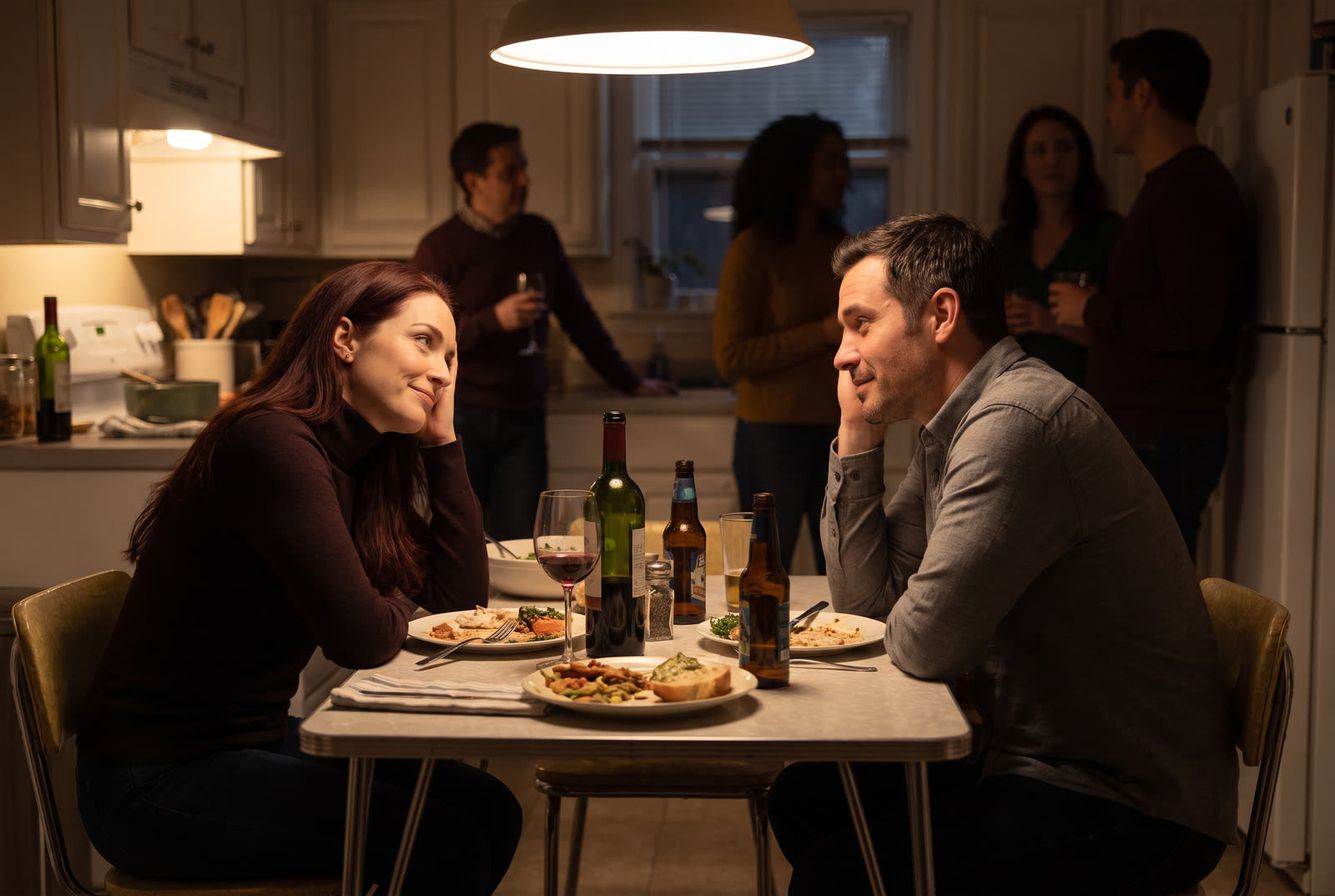
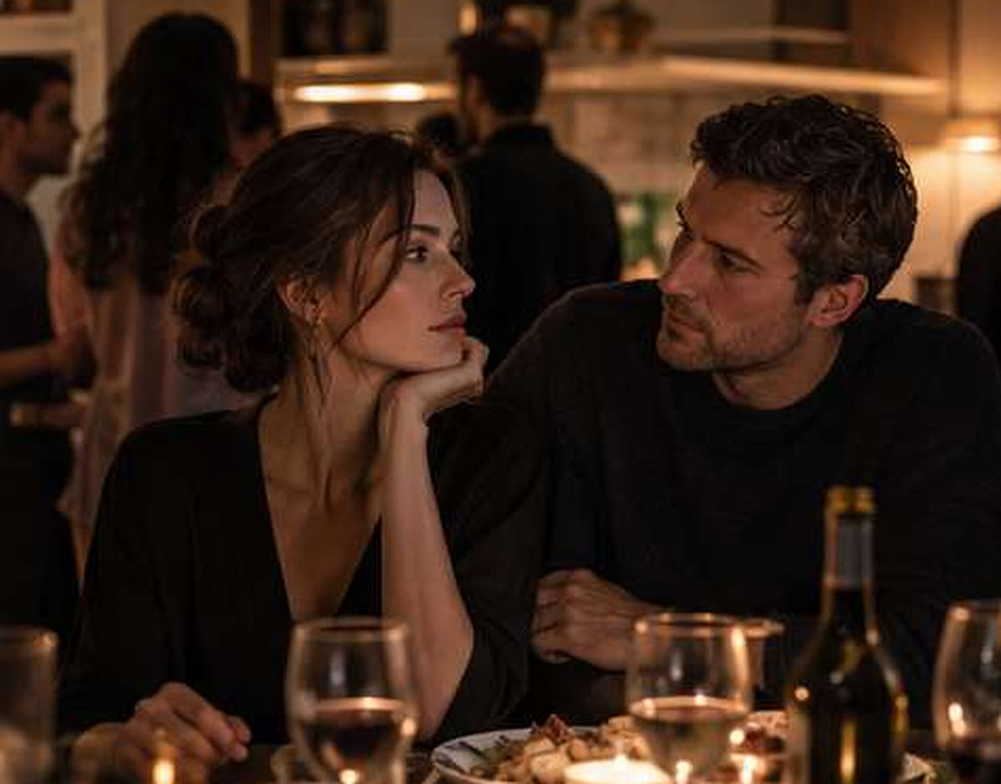
Елена: настоящие кадры вместо сгенерированных, восемь вставок по сюжету

diff --git a/elena.html b/elena.html
@@ -684,16 +684,29 @@ section[id]{scroll-margin-top:96px}
         <p class="drop">Они знали друг друга почти год. В сущности, знакомство их началось так, как начинаются многие знакомства, которым впоследствии приписывают особенное значение: без обещаний, без торжественных слов, почти случайно. Сперва они встречались в общей компании — у кого-нибудь на кухне, за столом, заставленным тарелками и бутылками, в комнатах, где разговоры тянутся далеко за полночь, а гости расходятся не сразу, словно каждому неприятно возвращаться в собственную пустую квартиру. Андрей говорил мало. Он не умел, как некоторые, заполнять паузы словами, но слушал внимательно, и Елена довольно скоро заметила, что при разговоре с ней он переставал смотреть по сторонам. Казалось, он боялся пропустить хоть одно слово и потом, оставшись один, старался припомнить её интонации.</p>
 
         <figure class="sf">
-          <img src="assets/img/story/elena_01_kuhnya.jpg" alt="Общая кухня поздним вечером: тарелки, бутылки, Елена и Андрей за столом" loading="lazy">
-          <figcaption>словно каждому неприятно возвращаться в собственную пустую квартиру</figcaption>
+          <img src="assets/img/story/elena_01_kuhnya.jpg" alt="Елена и Андрей за столом в общей компании: тарелки, бокалы, свечи" loading="lazy">
+          <figcaption>01 · общая кухня. тарелки, бутылки, поздний час</figcaption>
         </figure>
+
 
         <p>Поначалу она принимала это за застенчивость. Потом поняла, что дело не только в ней. В его внимании была какая-то почти стыдливая сосредоточенность, свойственная людям, которые уже отдали другому человеку значительную часть себя, хотя ещё не решились признаться в этом даже самим себе. Иногда, когда все остальные уходили, Андрей задерживался в прихожей, помогал ей убрать чашки или спрашивал о книге, о которой она упоминала за столом. Иногда она сама писала ему первой — без особенной причины, как ей казалось, просто потому, что вспоминала о нём. Она не отталкивала его; напротив, случалось, что оставляла рядом дольше, чем требовали приличия. Между ними постепенно возникло нечто неопределённое: ещё не роман, но уже и не простая дружба, а та осторожная близость, в которой каждый шаг кажется одновременно ничтожным и решающим.</p>
         <p>Елена была женщиной наблюдательной. Она замечала, как люди выдают себя мелочами: торопливым движением руки, внезапным молчанием, готовностью согласиться там, где следовало бы возразить. В Андрее её особенно занимало то, что он не требовал от неё ничего определённого. Он словно был готов ждать, пока она сама решит, чем станет их знакомство. Это могло показаться благородством, но Елена видела в этом и другую сторону: он слишком боялся потерять возможность быть рядом, чтобы предъявлять собственные желания.</p>
         <p>Однажды поздним сентябрём они сидели у неё на кухне. За окном темнело; на подоконнике остывал чайник, а в соседнем доме кто-то долго и неумело играл на пианино одну и ту же мелодию. Они говорили о книгах, о людях, которых оба знали, о странной способности человека годами жить не своей жизнью и при этом считать её единственно возможной. Елена вдруг замолчала, посмотрела на Андрея и произнесла, без предисловия и без улыбки:</p>
         <p class="dlg">— Есть вещи, которые для меня важны в близости. Не самые обычные. Если тебе это окажется чуждым, лучше сказать сразу.</p>
         <p>Она говорила спокойно, почти деловито. Речь шла о власти и контроле, о желании не просто отвечать на чужое чувство, а направлять его; о том, что ей необходимо видеть, как другой человек доверяет ей право решать, когда приблизиться, когда отступить и когда ждать. В её словах не было ни кокетства, ни попытки вызвать скандал. Она словно сообщала условие, без которого дальнейший разговор был бы бессмысленным.</p>
+
+        <figure class="sf">
+          <img src="assets/img/story/elena_02_treshchina.jpg" alt="Елена говорит через стол, на столе чайник и трещина в чашке" loading="lazy">
+          <figcaption>02 · трещина в столе. он молчал</figcaption>
+        </figure>
+
         <p>Андрей слушал, не перебивая. Сначала он не вполне понимал, что именно она имеет в виду; потом стал понимать достаточно, чтобы испугаться. Но страх этот был смешан с облегчением: перед ним впервые открывалась та часть Елены, которую она не показывала другим. Он долго молчал, глядя на стол, где возле сахарницы лежала маленькая трещина, похожая на тонкую чёрную нитку. Наконец спросил, можно ли попробовать.</p>
+
+        <figure class="sf">
+          <img src="assets/img/story/elena_03_ozhidanie.jpg" alt="Андрей один, руки сложены, он ждёт" loading="lazy">
+          <figcaption>03 · ожидание. решение остаётся за ней</figcaption>
+        </figure>
+
         <p>Он согласился не потому, что всё понял и заранее принял. Скорее, он не мог представить себе, как будет жить дальше, если Елена после этого разговора отдалится от него. Любовь, ещё не названная вслух, уже успела стать в нём настоящей силой; она подталкивала его к согласию, в котором было и любопытство, и страх, и желание доказать, что он способен выдержать то, чего она от него ждёт.</p>
         <p>Так всё и началось — не резко, не с внезапного переворота, а с медленного смещения границ. Сначала каждое новое условие казалось небольшим, почти незначительным. Андрей сам соглашался на него, сам убеждал себя, что в любой момент сможет передумать. Елена не торопила его и не повышала голоса. Она умела ждать, а ожидание, как вскоре обнаружилось, действовало на него сильнее любого приказа.</p>
         <p>В начале октября Елена стояла у высокого окна своего кабинета на третьем этаже старого особняка и медленно водила пальцем по запотевшему стеклу. Внизу тянулся бульвар, по которому проходили редкие прохожие. Фонари ещё не зажглись, но вечер уже темнел; листья клёнов, рыжие, подсохшие по краям, шуршали под ногами и собирались у чугунной ограды. В комнате пахло остывшим кофе, бумагой и сухой пылью старых книг. На письменном столе лежала раскрытая тетрадь в тёмном переплёте.</p>
@@ -708,29 +721,26 @@ section[id]{scroll-margin-top:96px}
         <p class="dlg">— Я хочу, чтобы ты начал отдавать мне деньги. Не много. Столько, сколько сам сочтёшь правильным. Не как плату. Как знак того, что ты понимаешь своё место.</p>
         <p>Она произнесла это без нажима. Именно поэтому просьба прозвучала серьёзнее приказа. Андрей не ответил сразу. Вопрос денег казался ему более обыденным и вместе с тем более опасным, чем всё, что происходило прежде. Он понимал, что денежный конверт изменит смысл их встреч: то, что до сих пор существовало между ними как тайное соглашение, получит вещественное подтверждение.</p>
 
-        <figure class="sf">
-          <img src="assets/img/story/elena_02_konvert.jpg" alt="Андрей кладёт первый конверт на край стола" loading="lazy">
-          <figcaption>получит вещественное подтверждение</figcaption>
-        </figure>
-
         <p>Через несколько дней он принёс первый конверт. Елена приняла его спокойно, пересчитала купюры и положила на край стола. Не было ни улыбки, ни благодарности, ни торжественного жеста. Она просто отметила, что он сделал то, о чём они говорили. Потом подошла ближе, взяла его лицо в ладони и впервые за долгое время позволила ему разрядку — медленно, под её немигающим взглядом, когда он стоял перед ней на коленях.</p>
         <p>Это не было похоже на ласку, которой он прежде добивался. Скорее, это было разрешение, данное в точно выбранный момент. И потому удовольствие оказалось таким сильным, что после у него ещё долго дрожали руки. Он не мог решить, что подействовало на него больше: само освобождение от напряжения или сознание, что оно произошло не по его требованию, а по её воле.</p>
         <p>Позже Елена открыла тетрадь и ровным почерком записала: «Первая передача и разрешение. Связка закрепилась. Тело уже начинает понимать, откуда приходит настоящее удовольствие». Перечитав написанное, она на мгновение задержала ручку над страницей, а затем закрыла тетрадь. В комнате было тихо; за стеной кто-то передвигал мебель, и этот бытовой шум почему-то казался ей особенно далёким.</p>
 
         <figure class="sf">
-          <img src="assets/img/story/elena_03_tetrad.jpg" alt="Елена пишет в тёмной тетради у зелёной лампы" loading="lazy">
-          <figcaption>В комнате было тихо; за стеной кто-то передвигал мебель</figcaption>
+          <img src="assets/img/story/elena_04_tetrad.jpg" alt="Тёмная тетрадь, перо и исписанный лист на столе" loading="lazy">
+          <figcaption>04 · тетрадь. ровный почерк</figcaption>
         </figure>
+
 
         <p>К середине ноября Андрей заметил в себе перемену, которую сперва не хотел признавать. Образы, прежде легко вызывавшие желание, — женщина в метро, случайный кадр в фильме, собственные воспоминания, — теперь почти не действовали на него. Он мог заметить красивое лицо, но не испытывал прежнего внутреннего движения. Всё это словно принадлежало другой жизни, которую он помнил, однако уже не считал своей.</p>
         <p>Зато мысль о том, что вечером он снова положит конверт на ладонь Елены, а она, возможно, откроет замок или оставит его закрытым, вызывала в нём густое, тяжёлое волнение. Пояс удерживал это чувство, не позволяя ему разрешиться привычным образом. Андрей начал понимать, что его желание перестраивается. Оно больше не стремилось к простому удовлетворению; оно искало её решения. Ему хотелось не столько получить ответ, сколько дождаться, когда она сочтёт нужным его дать.</p>
 
+        <p>Елена наблюдала за этой переменой внимательно. Она не прибегала к долгому молчанию и не исчезала на недели: это было бы грубо, да и едва ли принесло бы нужный результат. Вместо этого она выстраивала особый ритм. Иногда отвечала на сообщение сразу, иногда оставляла его без ответа на несколько часов. Иногда звала Андрея к себе и весь вечер говорила о постороннем, не касаясь ни пояса, ни денег. Он уходил после таких встреч с ещё более острым ощущением незавершённости. В его ожидании появлялось нечто самостоятельное: оно уже не было только неприятным промежутком между двумя разрешениями, а становилось частью того, ради чего он приходил.</p>
+
         <figure class="sf">
-          <img src="assets/img/story/elena_04_poyas.jpg" alt="Кожаный пояс с замком на тёмном столе, рядом две руки" loading="lazy">
-          <figcaption>не позволяя ему разрешиться привычным образом</figcaption>
+          <img src="assets/img/story/elena_05_telefon.jpg" alt="Елена с телефоном у окна, смотрит в сторону" loading="lazy">
+          <figcaption>05 · сообщение. она отвечает не сразу</figcaption>
         </figure>
 
-        <p>Елена наблюдала за этой переменой внимательно. Она не прибегала к долгому молчанию и не исчезала на недели: это было бы грубо, да и едва ли принесло бы нужный результат. Вместо этого она выстраивала особый ритм. Иногда отвечала на сообщение сразу, иногда оставляла его без ответа на несколько часов. Иногда звала Андрея к себе и весь вечер говорила о постороннем, не касаясь ни пояса, ни денег. Он уходил после таких встреч с ещё более острым ощущением незавершённости. В его ожидании появлялось нечто самостоятельное: оно уже не было только неприятным промежутком между двумя разрешениями, а становилось частью того, ради чего он приходил.</p>
         <p>В конце ноября Елена стала увеличивать промежутки между разрешениями. Пояс оставался закрытым по десять, двенадцать, иногда четырнадцать дней. Каждый раз, когда Андрей приносил очередной конверт, она решала, открыть замок или нет. Иногда открывала. Иногда говорила коротко:</p>
         <p class="dlg">— Не сегодня.</p>
         <p>Он кивал. Разочарование было неизбежным, но вместе с ним приходило странное, почти благодарное облегчение. Отказ больше не означал, что его отвергли или забыли. Напротив, он подтверждал, что решение по-прежнему принадлежит ей, что их соглашение действует, что он не может самовольно поставить точку там, где она ещё не закончила фразу. Постепенно отказ стал волновать его сильнее, чем разрешение, хотя он не решился бы объяснить это даже самому себе.</p>
@@ -754,9 +764,10 @@ section[id]{scroll-margin-top:96px}
         <p>Елена подошла ближе и легко, почти рассеянно коснулась пальцами его щеки. Этот жест мог показаться нежным; мог показаться и простым знаком того, что разговор окончен. Андрей не пытался решить, какое из двух значений верно. Ему было достаточно того, что прикосновение исходило от неё.</p>
 
         <figure class="sf">
-          <img src="assets/img/story/elena_05_ladoni.jpg" alt="Елена держит ладони на лице Андрея, он стоит на коленях" loading="lazy">
-          <figcaption>Ему было достаточно того, что прикосновение исходило от неё</figcaption>
+          <img src="assets/img/story/elena_06_ladoni.jpg" alt="Елена и Андрей, его ладонь на её плече" loading="lazy">
+          <figcaption>06 · ладони. больше не нужно слов</figcaption>
         </figure>
+
 
         <p class="dlg">— Тогда слушай, — сказала она. — Мы будем продолжать. Суммы будут расти. Паузы иногда станут длиннее. Иногда я буду оставлять тебя закрытым дольше, чем тебе хочется. Потому что именно так это работает. Если остановиться, всё начнёт слабеть. А я не хочу, чтобы слабело.</p>
         <p>Она говорила без раздражения и без торжества, как человек, который сообщает о принятом решении. В её спокойствии было нечто окончательное. Андрей смотрел на неё и понимал, что она говорит правду — по крайней мере, правду о собственных намерениях. Пути назад, возможно, ещё существовали, но теперь они казались ему не дорогами, а узкими проходами в стене, за которой он уже не мог различить прежнюю жизнь.</p>
@@ -764,16 +775,18 @@ section[id]{scroll-margin-top:96px}
         <p>Когда он уходил, снег всё ещё шёл. На бульваре было темно; редкие прохожие двигались быстро, подняв воротники, а под ногами хлюпала снежная вода. Андрей шёл, чувствуя под одеждой холодный металл пояса — постоянное, тихое напоминание о том, кому теперь, как ему казалось, принадлежали его тело и желание. Внутри было страшно. Но рядом со страхом жило спокойствие, почти непривычное своей определённостью. Впервые за долгие годы он точно знал, где находится его место. По крайней мере, так ему хотелось думать.</p>
 
         <figure class="sf">
-          <img src="assets/img/story/elena_06_sneg.jpg" alt="Тяжёлый мокрый снег за окном ночью, фонарь и тёмный дом" loading="lazy">
-          <figcaption>По крайней мере, так ему хотелось думать</figcaption>
+          <img src="assets/img/story/elena_07_bulvar.jpg" alt="Мокрый осенний бульвар, фонарь и жёлтые листья" loading="lazy">
+          <figcaption>07 · декабрь. мокрый бульвар</figcaption>
         </figure>
+
 
         <p>Елена осталась одна. Некоторое время она сидела в темноте кабинета, не включая верхний свет. Зелёная лампа отбрасывала на стол небольшой круг света, за пределами которого книги и мебель сливались в тени. За окном снег продолжал падать медленно и тяжело. Елена думала о том, что механизм, который она выстраивала с самого начала, действует так, как она рассчитывала. Любовь, принесённая Андреем в их отношения, оказалась достаточно сильной, чтобы выдержать перемену и даже послужить ей опорой.</p>
 
         <figure class="sf">
-          <img src="assets/img/story/elena_07_kabinet.jpg" alt="Пустой кабинет: зелёная лампа, закрытая тетрадь, снег за окном" loading="lazy">
-          <figcaption>Елена осталась одна.</figcaption>
+          <img src="assets/img/story/elena_08_kabinet.jpg" alt="Чайник и треснувшая чашка в полутьме кабинета" loading="lazy">
+          <figcaption>08 · кабинет. лампа. ключ в ящике</figcaption>
         </figure>
+
 
         <p>Она не стала называть это ни победой, ни несчастьем. Такие слова слишком многое объясняли заранее и потому мало что объясняли на самом деле. Елена знала только, что теперь его чувство работало на неё, а созданный ими порядок требовал продолжения. Стоило остановиться — и всё, что они так медленно и точно выстроили, могло начать осыпаться; вместе с ним, возможно, исчезло бы и то особенное внимание, которое она привыкла видеть в его глазах.</p>
         <p>Она закрыла тетрадь, убрала ключ в ящик стола и ещё долго сидела неподвижно. В доме потрескивали трубы, где-то внизу хлопнула дверь, по бульвару прошла машина, шурша мокрыми колёсами. Обычные звуки возвращали комнате её прежний вид, но Елена уже смотрела на неё иначе. Завтра всё могло повториться: сообщение, приглашение, конверт, ожидание решения. Нужно было лишь продолжать — глубже, точнее, без всякой спешки.</p>
